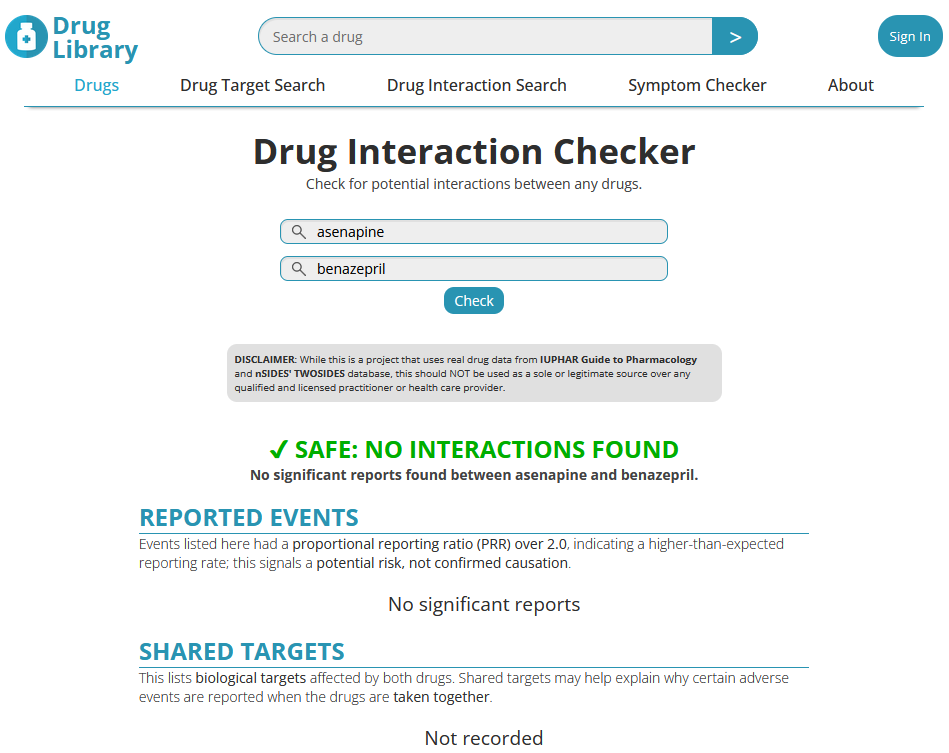
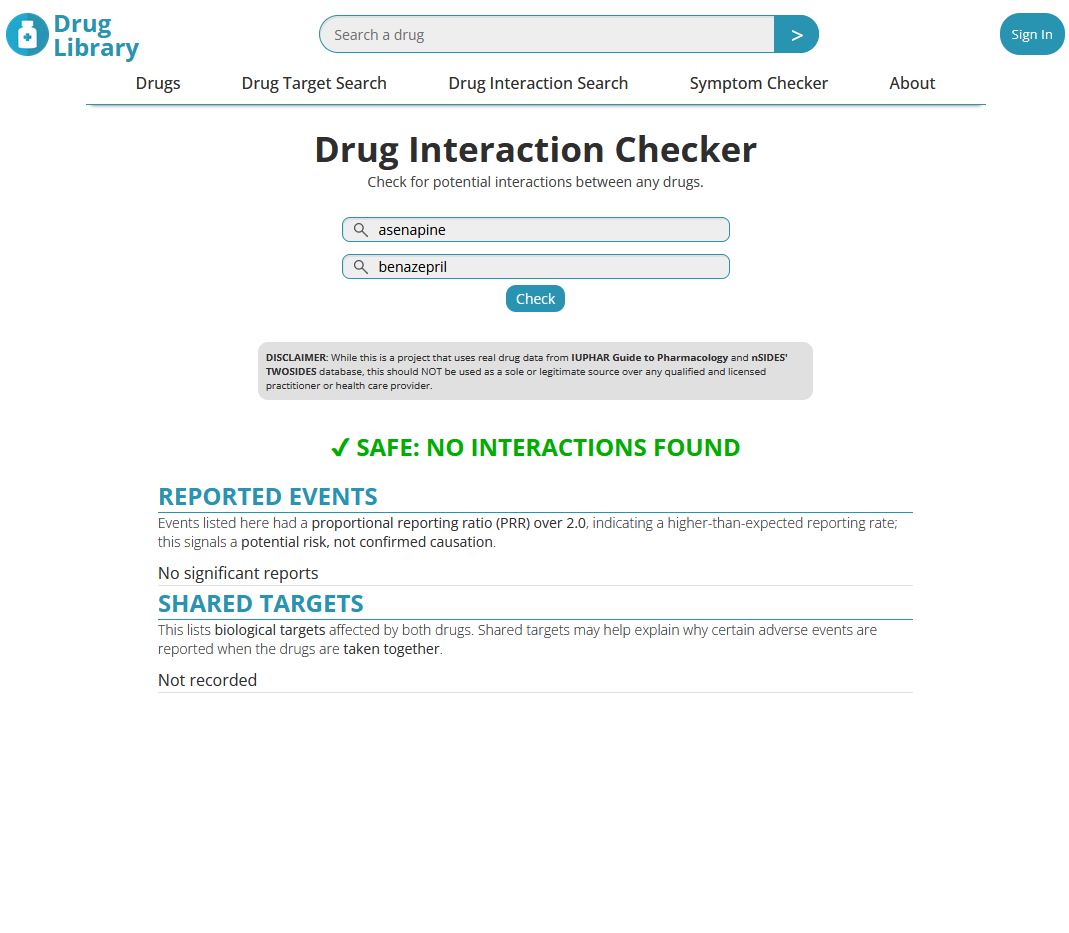
docs: add new README images

diff --git a/src/components/Header.css b/src/components/Header.css
@@ -1,112 +1,139 @@
-.header{
-    height: 60px;
-    background-color: var(--tertiary-color);
-    padding: 0 10px;
+.header {
+  height: 60px;
+  background-color: var(--tertiary-color);
+  padding: 0 10px;
 }
-.header__inner{
-    display: flex;
-    flex-direction: row;
-    align-items: center;
-    justify-content: space-between;
-    max-width: 1200px;
-    width: 100%;
-    margin: 0 auto;
+.header__inner {
+  display: flex;
+  flex-direction: row;
+  align-items: center;
+  justify-content: space-between;
+  max-width: 1200px;
+  width: 100%;
+  margin: 0 auto;
 }
-.header__branding{
-    display: flex;
-    flex-direction: row;
-    align-items: center;
-    margin: 0;
-    cursor: pointer;
+.header__branding {
+  display: flex;
+  flex-direction: row;
+  align-items: center;
+  margin: 0;
+  cursor: pointer;
 }
-.header__logo{
-    height: 43px;
-    object-fit: contain;
-    margin-right: 4px;
+.header__logo {
+  height: 43px;
+  object-fit: contain;
+  margin-right: 4px;
 }
-.header__logo-text{
-    display: flex;
-    flex-direction: column;
-    color: var(--primary-color);
-    font-size: 24px;
-    font-weight: bold;
-    line-height: 24px;
+.header__logo-text {
+  display: flex;
+  flex-direction: column;
+  color: var(--primary-color);
+  font-size: 24px;
+  font-weight: bold;
+  line-height: 24px;
 }
-.header__search{
-    display: flex;
-    flex: 1;
-    justify-content: center;
-    max-width: 500px;
-    margin: 0 20px;
+.header__search {
+  display: flex;
+  flex: 1;
+  justify-content: center;
+  max-width: 500px;
+  margin: 0 20px;
 }
-.header__search-bar{
-    flex: 1;
-    font-size: 14px;
-    padding: 6px 14px;
-    border: 1px solid var(--primary-color);
-    border-radius: 20px 0 0 20px;
-    background-color: var(--gray-200);
-    box-shadow: inset 1px 2px 0px 0px var(--gray-300);
-    font-family: var(--open-sans), sans-serif;
+.header__search-bar {
+  flex: 1;
+  font-size: 14px;
+  padding: 6px 14px;
+  border: 1px solid var(--primary-color);
+  border-radius: 20px 0 0 20px;
+  background-color: var(--gray-200);
+  box-shadow: inset 1px 2px 0px 0px var(--gray-300);
+  font-family: var(--open-sans), sans-serif;
 }
-.header__search-bar::placeholder{
-    font-family: var(--open-sans), sans-serif;
+.header__search-bar::placeholder {
+  font-family: var(--open-sans), sans-serif;
 }
-.header__search-bar:focus{
-    outline: 0;
-    box-shadow: 0 0 0 2px var(--primary-color);
+.header__search-bar:focus {
+  outline: 0;
+  box-shadow: 0 0 0 2px var(--primary-color);
 }
-.header__search-button{
-    font-size: 20px;
-    padding: 6px 14px;
-    border: 1px solid var(--primary-color);
-    border-radius: 0 20px 20px 0;
-    cursor: pointer;
-    color: var(--tertiary-color);
-    background-color: var(--primary-color);
+.header__search-button {
+  font-size: 20px;
+  padding: 6px 14px;
+  border: 1px solid var(--primary-color);
+  border-radius: 0 20px 20px 0;
+  cursor: pointer;
+  color: var(--tertiary-color);
+  background-color: var(--primary-color);
 }
-.header__misc{
-    display: flex;
-    justify-content: flex-end;
-    align-items: center;
+.header__misc {
+  display: flex;
+  justify-content: flex-end;
+  align-items: center;
 }
-.header__sign-in-button{
-    white-space: nowrap;
-    padding: 12px;
-    border: none;
-    border-radius: 20px;
-    cursor: pointer;
-    color: var(--tertiary-color);
-    background-color: var(--primary-color);
-    font-family: var(--open-sans), sans-serif;
-    transition: background-color 0.15s;
+.header__sign-in-button {
+  white-space: nowrap;
+  padding: 12px;
+  border: none;
+  border-radius: 20px;
+  cursor: pointer;
+  color: var(--tertiary-color);
+  background-color: var(--primary-color);
+  font-family: var(--open-sans), sans-serif;
+  transition: background-color 0.15s;
 }
-.header__sign-in-button:hover{
-    background-color: var(--primary-color-hover);
+.header__sign-in-button:hover {
+  background-color: var(--primary-color-hover);
 }
-.header__sign-in-button:active{
-    background-color: var(--primary-color-active);
-}   
+.header__sign-in-button:active {
+  background-color: var(--primary-color-active);
+}
 
-/* Tablet and Mobile */
-@media (max-width: 768px){
-    .header{
-        height: 50px;
-    }
-    .header__logo-text{
-        font-size: 18px;
-        line-height: 20px;
-    }
-    .header__sign-in-button{
-        padding: 8px 10px;
-        font-size: 12px;
-    }
-    .header__search-bar{
-        font-size: 12px;
-        padding: 4px 10px;
-    }
-    .header__search-button{
-        font-size: 16px;
-        padding: 4px 10px;
-    }
+/* Tablet */
+@media (max-width: 768px) {
+  .header {
+    height: 50px;
+  }
+  .header__logo-text {
+    font-size: 18px;
+    line-height: 20px;
+  }
+  .header__sign-in-button {
+    padding: 8px 10px;
+    font-size: 12px;
+  }
+  .header__search-bar {
+    font-size: 12px;
+    padding: 4px 10px;
+  }
+  .header__search-button {
+    font-size: 16px;
+    padding: 4px 10px;
+  }
+}
+
+/* Mobile (small devices) */
+@media (max-width: 480px) {
+  .header {
+    height: 40px;
+  }
+
+  .header__logo-text {
+    font-size: 14px;
+    line-height: 16px;
+  }
+
+  .header__sign-in-button {
+    padding: 6px 8px;
+    font-size: 10px;
+  }
+
+  .header__search-bar {
+    font-size: 10px;
+    padding: 2px 6px;
+  }
+
+  .header__search-button {
+    font-size: 14px;
+    padding: 2px 6px;
+  }
 }
